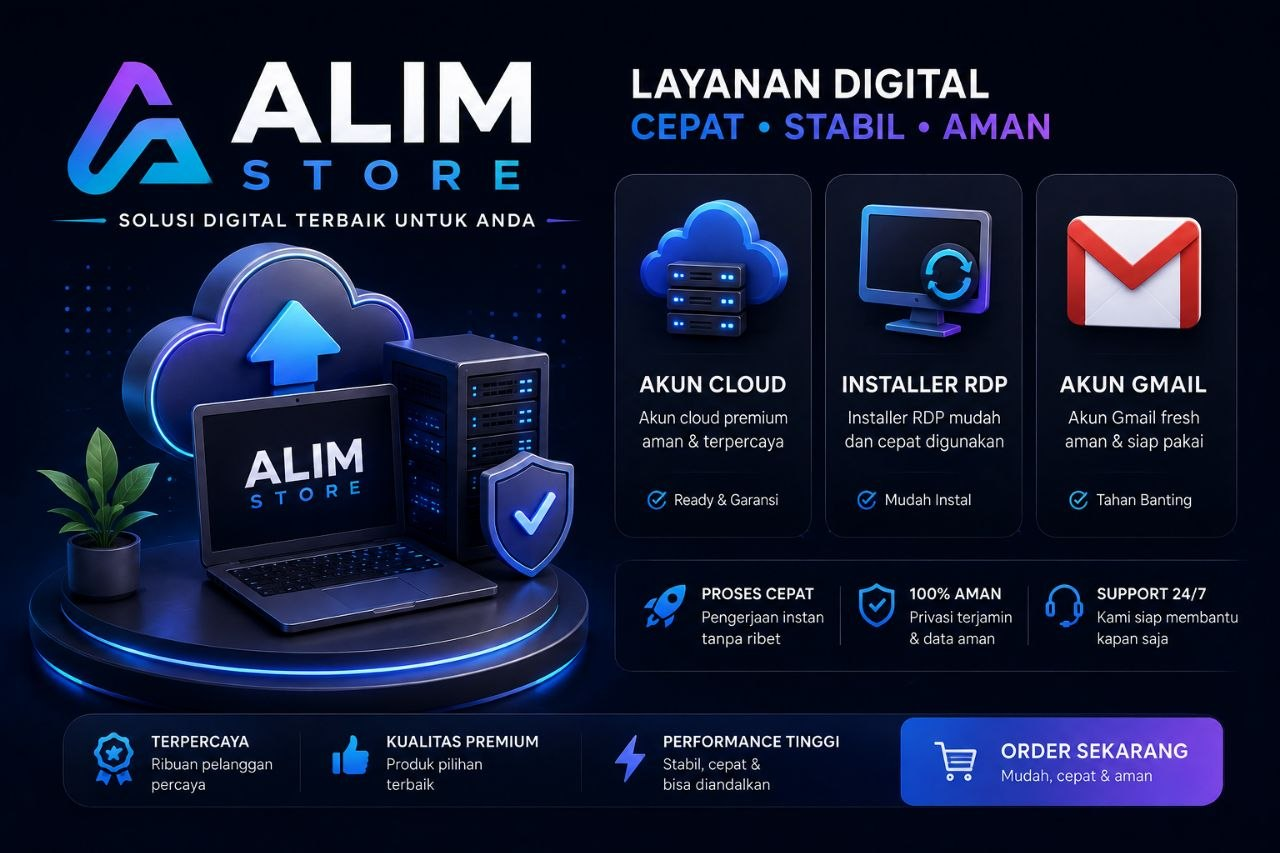
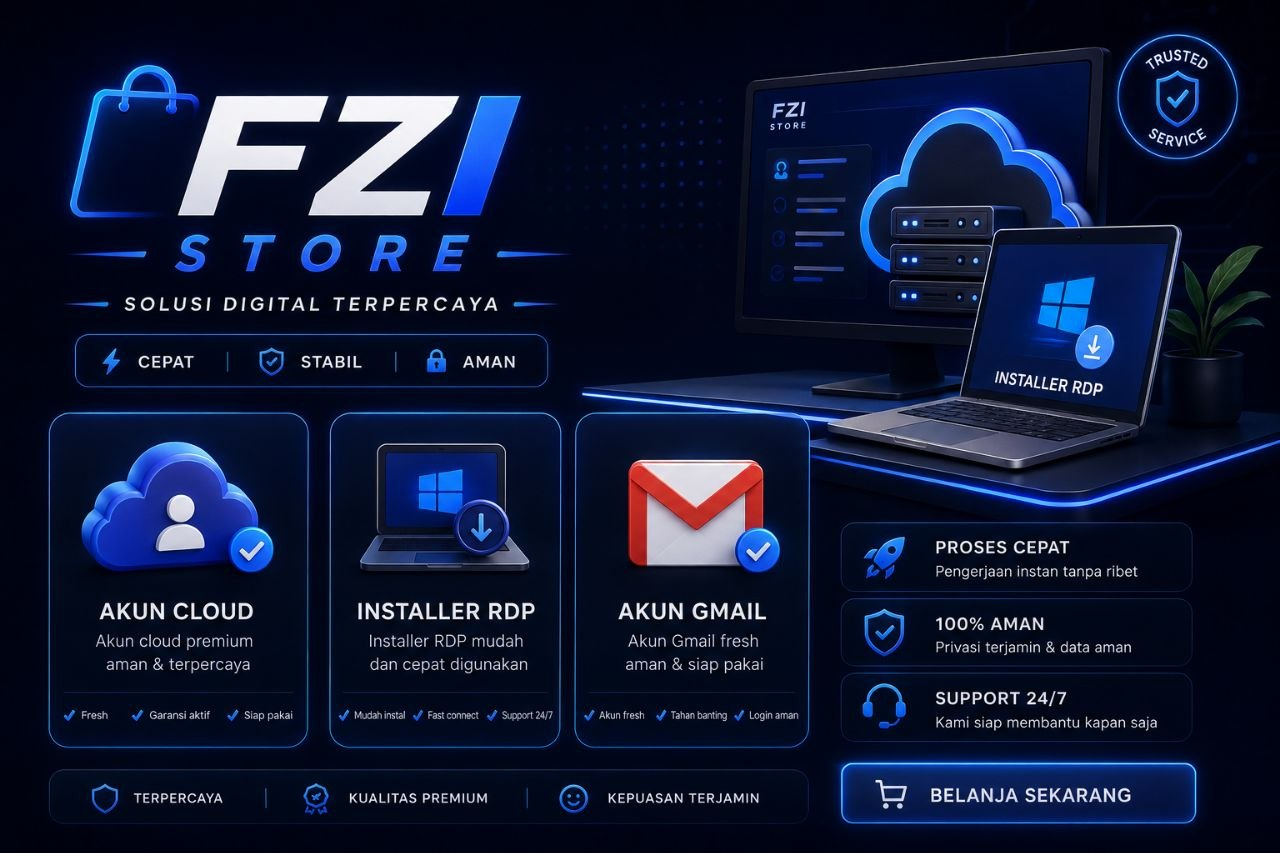
resolve merge conflict

diff --git a/all.js b/all.js
@@ -558,14 +558,14 @@ async function generateStartMessageAndKeyboard(ctx) {
     const totalSpentRp = (user.totalSpent || 0).toLocaleString('id-ID', { style: 'currency', currency: 'IDR', minimumFractionDigits: 0 });
     const balanceRp = (user.balance || 0).toLocaleString('id-ID', { style: 'currency', currency: 'IDR', minimumFractionDigits: 0 });
 
-    const message = `👋 — Hello ${ctx.from.first_name} Selamat Datang Di ALIM STORE\n\n` +
+    const message = `👋 — Hello ${ctx.from.first_name} Selamat Datang Di FZI STORE\n\n` +
                     `🗓 ${new Date().toLocaleDateString('id-ID', { weekday: 'long', year: 'numeric', month: 'long', day: 'numeric', hour: '2-digit', minute: '2-digit' })}\n\n` +
                     `*User Details :*\n` +
                     `├ ID : \`${user.id}\`\n` +
                     `├ Username : @${user.username}\n` +
                     `└ Total Spent : ${totalSpentRp}\n\n` +
                     `*BOT Statistics*\n\n` +
-                    `├ Products Sold : ${9125 + productsSoldCount} Accounts\n` +
+                    `├ Products Sold : ${7125 + productsSoldCount} Accounts\n` +
                     `└ Total Users : ${1026 + totalUsers} Users\n\n` +
                     `Silahkan tekan tombol '🛒 List Produk'\n` +
                     `Bot Ubah Vps Ke Rdp (installer rdp) @fzistorebot\n`;
@@ -1519,7 +1519,7 @@ bot.action(/^tokopay_([^_]+)_(.*?)_(\d+)$/, async (ctx) => {
 
                     if (order.quantity < 10) {
                         const formattedItems = order.reservedItems.map((item, index) => `${index + 1}. ${item}`).join('\n');
-                        let successMessage = `🧾 *Pembelian Berhasil*\n\nTerima kasih!, Jika Ada Pertanyaan Silahkan Chat Admin Di wa.me/6285753323094\n\n` +
+                        let successMessage = `🧾 *Pembelian Berhasil*\n\nTerima kasih!, Jika Ada Pertanyaan Silahkan Chat Admin Di wa.me/6285173329868\n\n` +
                             `*Informasi Pembelian:*\n– Total Dibayar: Rp ${order.amount.toLocaleString('id-ID')}\n` +
                             `– Metode: QRIS\n– ID Transaksi: \`${payment.displayOrderId}\`\n\n` +
                             "```\n" + `${order.productName.toUpperCase()}\n${formattedItems}` + "\n```";
@@ -1527,7 +1527,7 @@ bot.action(/^tokopay_([^_]+)_(.*?)_(\d+)$/, async (ctx) => {
                         await bot.telegram.sendMessage(order.customerInfo.telegramUserId, successMessage, { parse_mode: 'Markdown' });
 
                     } else {
-                        let successMessage = `🧾 *Pembelian Berhasil*\n\nTerima kasih!, Jika Ada Pertanyaan Silahkan Chat Admin Di wa.me/6285753323094\n\n` +
+                        let successMessage = `🧾 *Pembelian Berhasil*\n\nTerima kasih!, Jika Ada Pertanyaan Silahkan Chat Admin Di wa.me/6285173329868\n\n` +
                             `*Informasi Pembelian:*\n– Total Dibayar: Rp ${order.amount.toLocaleString('id-ID')}\n` +
                             `– Metode: QRIS\n– ID Transaksi: \`${payment.displayOrderId}\`\n\n` +
                             `Anda membeli *${order.quantity}* item. Akun Anda dikirimkan dalam file terpisah.`;
